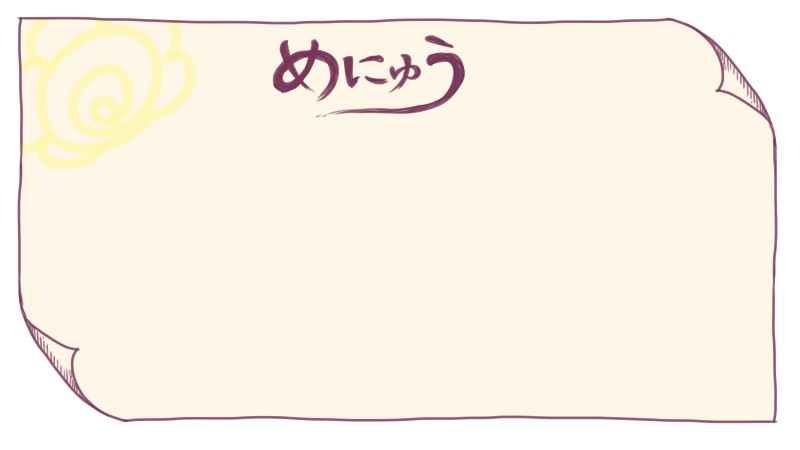
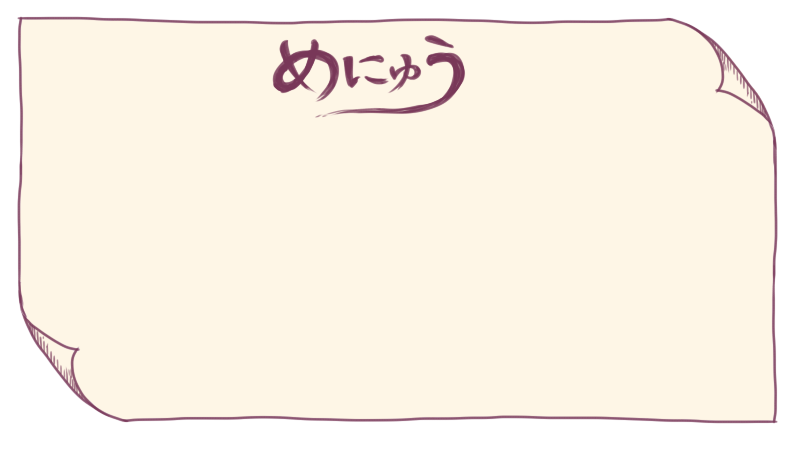
put image resource

Changed region(s): [[0.0312, 0.0311, 0.25, 0.3733]]

diff --git a/src/js/texture/containers/SelectLevelBoard.ts b/src/js/texture/containers/SelectLevelBoard.ts
@@ -38,16 +38,16 @@ class SelectLevelBoard extends Container {
         this._background.position.set(0);
 
         this._beginnerButton = new BeginnerLevelButton();
-        this._beginnerButton.position.set(-1 * width * 0.3, 0);
+        this._beginnerButton.position.set(-1 * width * 0.3, height * 0.05);
 
         this._noviceButton = new NoviceLevelButton();
-        this._noviceButton.position.set(0, 0);
+        this._noviceButton.position.set(0, height * 0.05);
 
         this._expertButton = new ExpertLevelButton();
-        this._expertButton.position.set(width * 0.3, 0);
+        this._expertButton.position.set(width * 0.3, height * 0.05);
 
         this.backButton = new Button(loadTexture(Ids.BUTTON_MENU_BACK));
-        this.backButton.position.set(-1 * width * 0.65, -1 * height * 0.3);
+        this.backButton.position.set(-1 * width * 0.75, -1 * height * 0.37);
 
         this.addChild(
             this._background,

diff --git a/src/js/texture/containers/SelectMultiPlayModeBoard.ts b/src/js/texture/containers/SelectMultiPlayModeBoard.ts
@@ -16,7 +16,7 @@ export type ClickEventType = "offline" | "online" | "back";
  */
 class MenuBoardBackGround extends Sprite {
     constructor() {
-        super(loadTexture(Ids.MENU_BOARD));
+        super(loadTexture(Ids.SELECT_MULTI_MODE_BOARD));
     }
 }
 
@@ -33,7 +33,7 @@ class SelectMultiPlayModeBoard extends Container {
         this.background.position.set(0);
 
         this.backButton = new Button(loadTexture(Ids.BUTTON_MENU_BACK));
-        this.backButton.position.set(-1 * width * 0.65, -1 * height * 0.3);
+        this.backButton.position.set(-1 * width * 0.75, -1 * height * 0.37);
 
         this.offlineButton = new Button(loadTexture(Ids.BUTTON_MENU_OFFLINE_GAME));
         this.offlineButton.position.set(-1 * width * 0.2, height * 0.05);

diff --git a/src/js/resources/image.ts b/src/js/resources/image.ts
@@ -50,6 +50,7 @@ export enum Ids {
     LOGO_GAME_OVER,
     MENU_BOARD,
     SELECT_LEVEL_BOARD,
+    SELECT_MULTI_MODE_BOARD,
     SIGNAL,
 }
 
@@ -100,6 +101,7 @@ const manifest: ImageManifest = {
         [Ids.LOGO_GAME_OVER]: 'image_logo_gameover.png',
         [Ids.MENU_BOARD]: 'image_menu_board.png',
         [Ids.SELECT_LEVEL_BOARD]: 'image_select_level_board.png',
+        [Ids.SELECT_MULTI_MODE_BOARD]: 'image_select_multi_mode_board.png',
         [Ids.SIGNAL]: 'image_signal.png',
     },
     ja: {}
